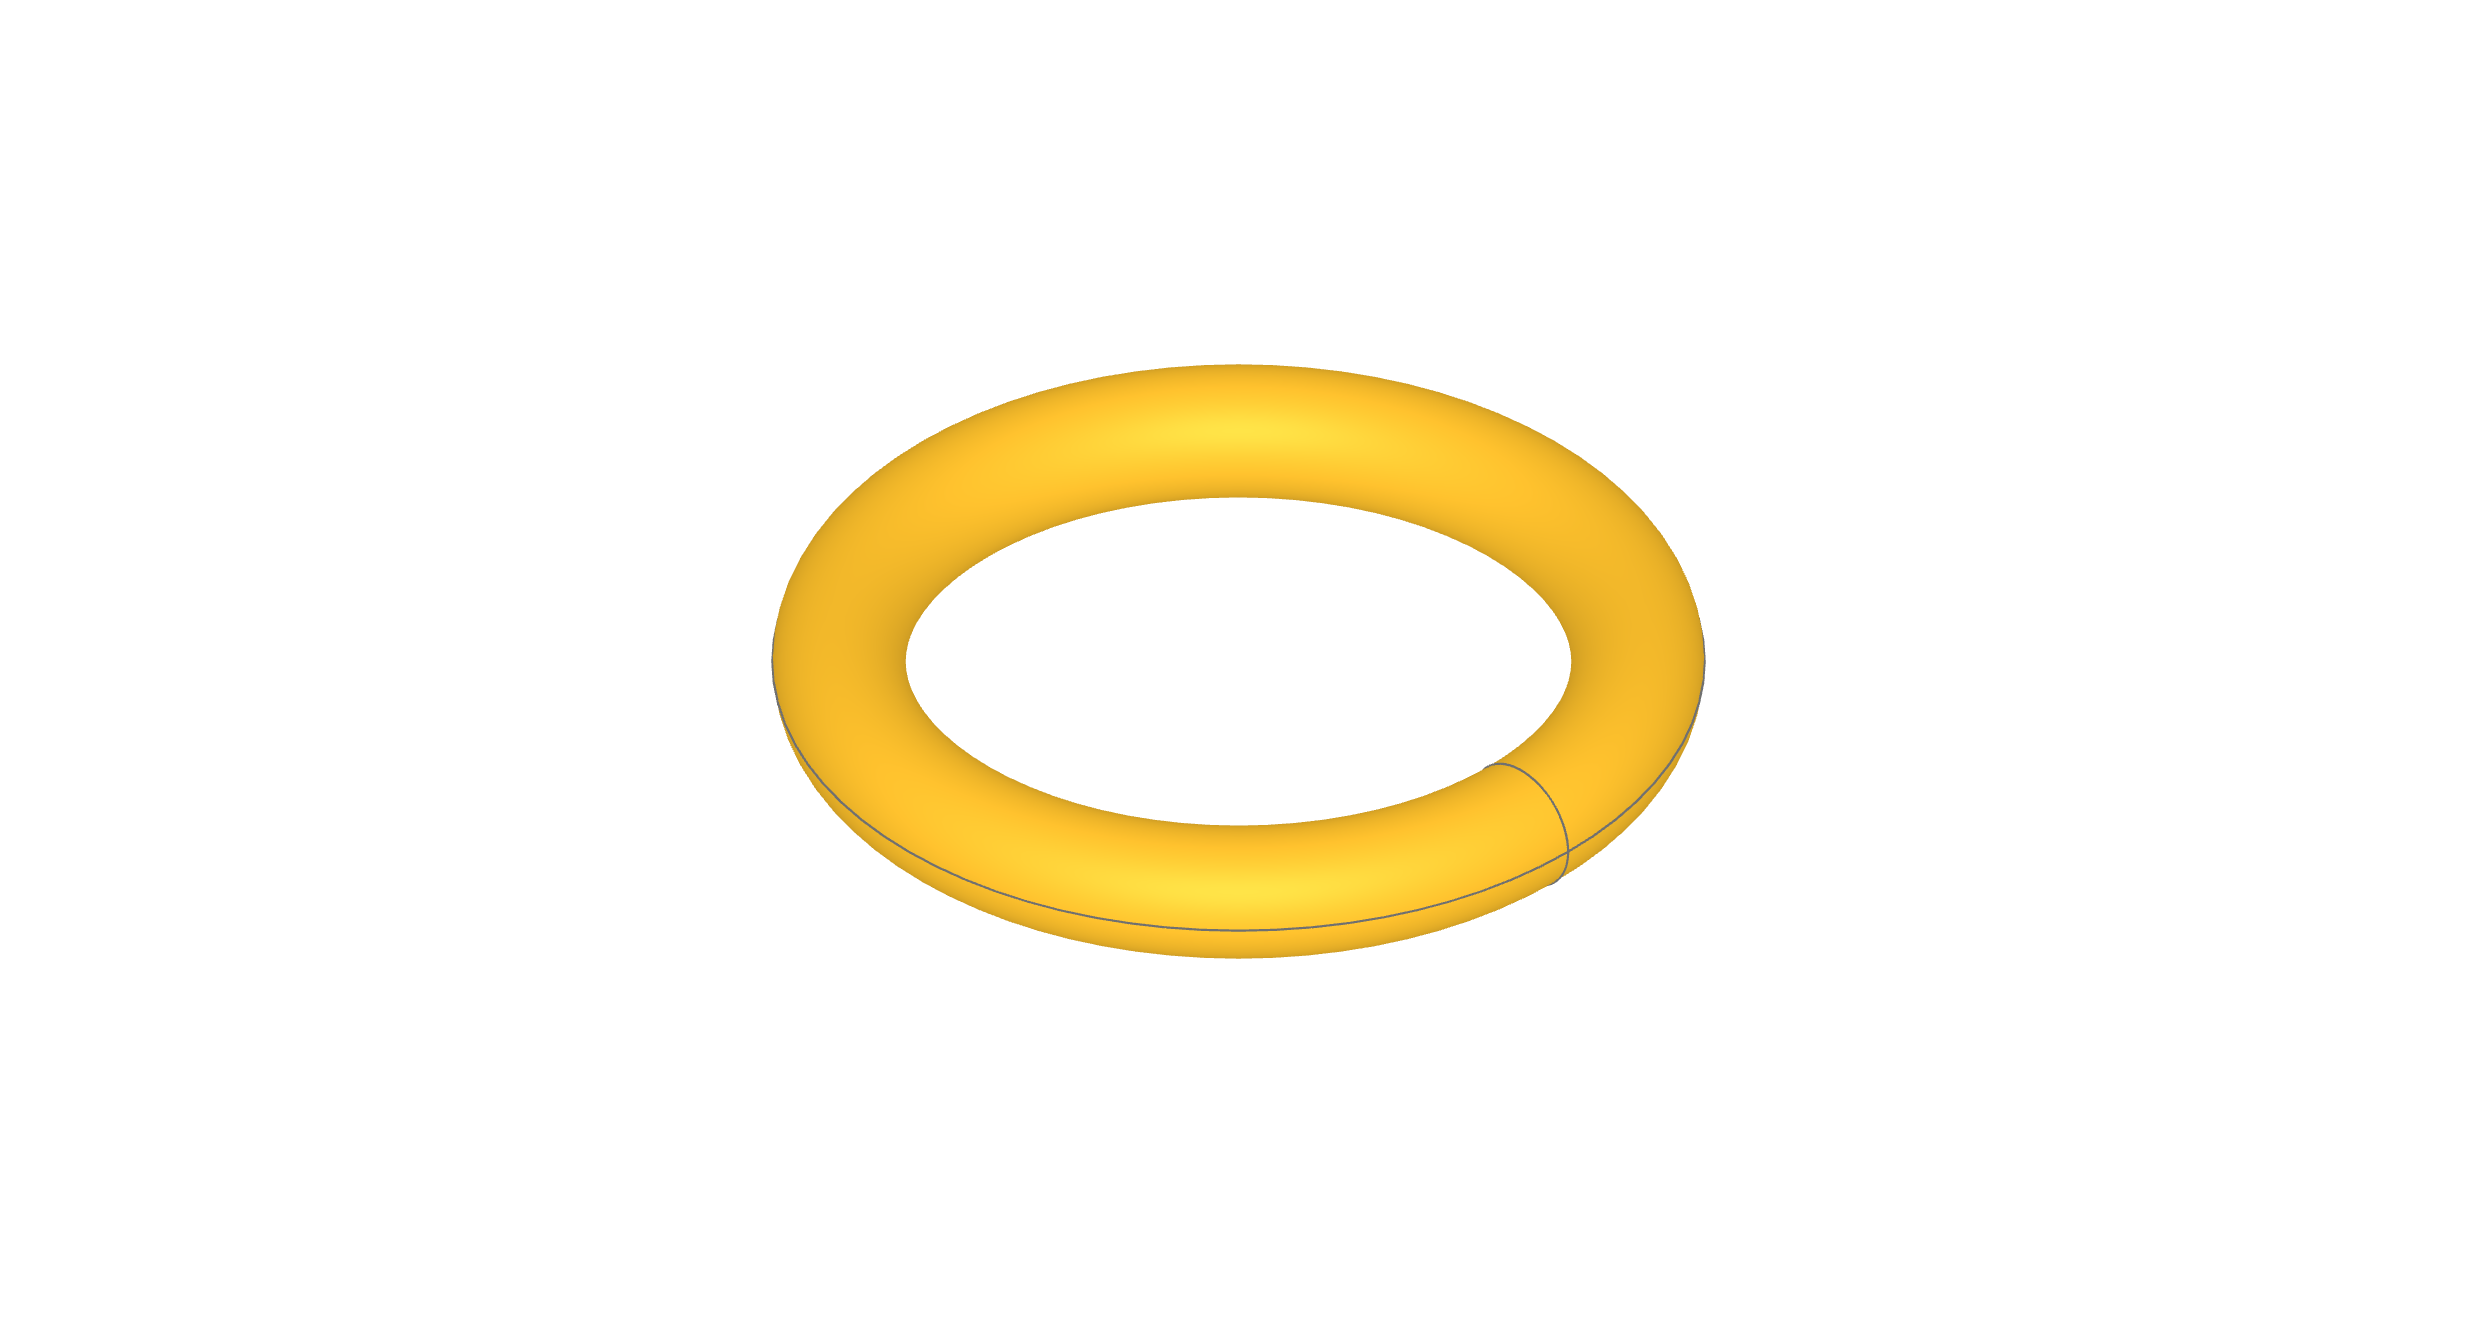
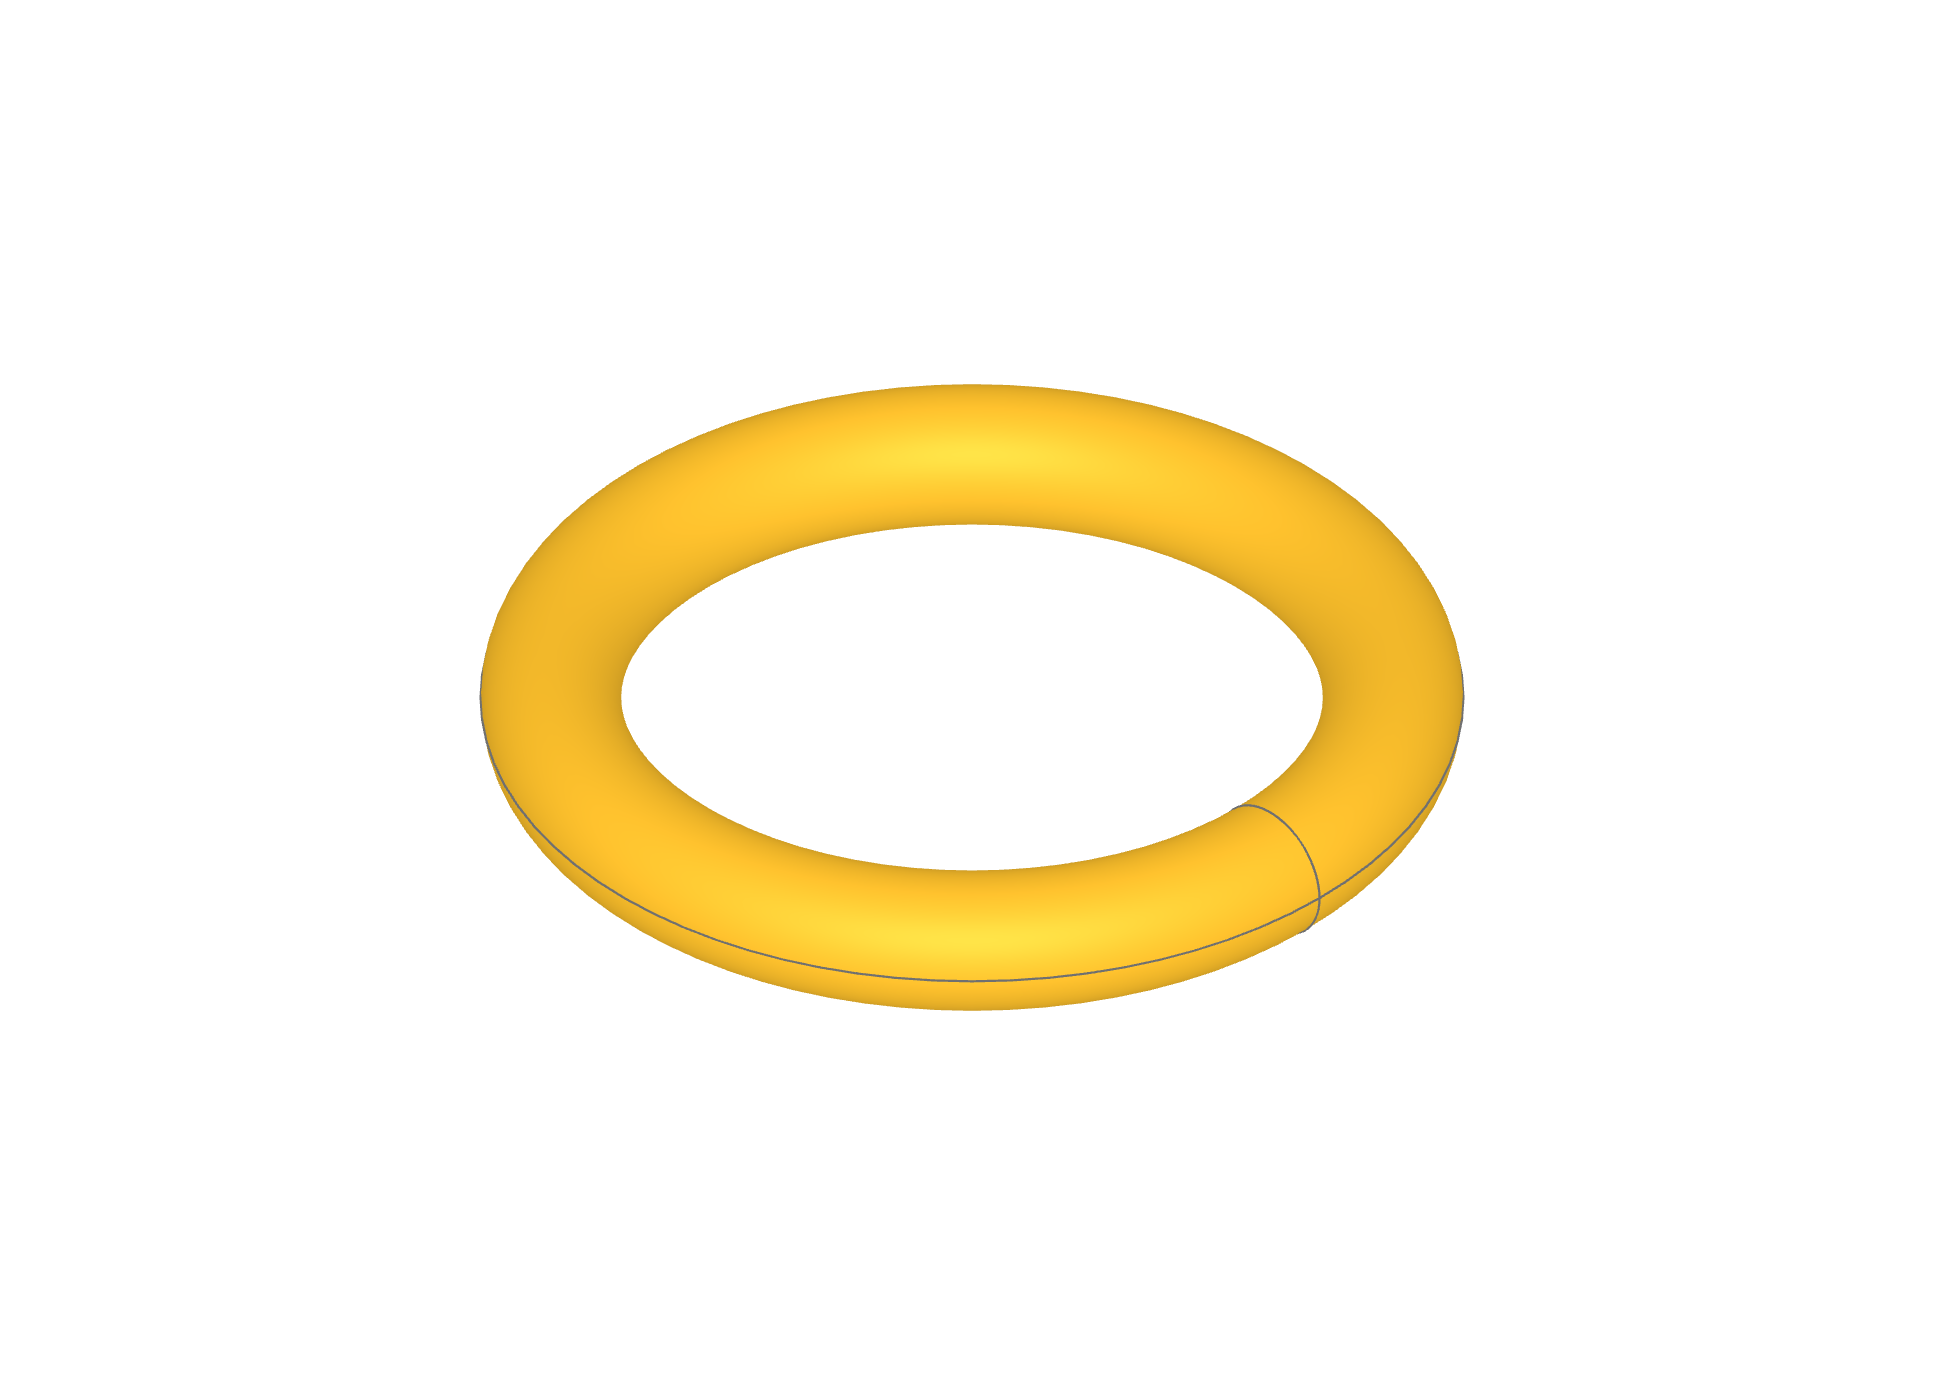
feat(seals): O-ring entry A1–A5 complete — GEOMETRY_INVARIANTS + contract + cache
- oring.py: add GEOMETRY_INVARIANTS (4 invariants) + _assert_geometry_invariants()
  called inside make_oring(); add import math
- contracts/oring_contract.yaml: new A2.4 contract (torus_ring + cord_section
  visual features, 4 geometry_invariants matching Python lambdas exactly)
- cache/oring.step + oring.png: canonical d1=10 d2=2 representative spec (OCP render)
- scripts/build_cache.py: add seals/oring to _rep_bundle()
- actuators/BOM.md: D1 status updated ⬜→✅, standard-parts-lib gap cleared

A4 results:
  Layer 0 — 13 specs PASS (OR_03x15 … OR_50x35)
  Layer 1 — PNG visual PASS (complete torus, circular cord cross-section visible)
  Layer 2 — verify_standard_part verdict=PASS (7-view AI vision check)

Changed region(s): [[0.5247, 0.2787, 0.7716, 0.7432], [0.2469, 0.2787, 0.463, 0.7432]]

diff --git a/build123d_parts_lib/parts/seals/oring.py b/build123d_parts_lib/parts/seals/oring.py
@@ -14,6 +14,7 @@ Geometry:
 """
 from __future__ import annotations
 
+import math
 from pathlib import Path
 from typing import NamedTuple
 
@@ -95,7 +96,41 @@ def make_oring(d1: float = 10.0, d2: float = 2.0) -> Part:
             align=(Align.CENTER, Align.CENTER, Align.CENTER),
         )
 
+    # 计算 g-dict 供不变式断言 / compute geometry dict for invariant checks
+    g = {
+        "d1": d1,
+        "d2": d2,
+        "major_r": major_r,
+        "minor_r": minor_r,
+        "outer_d": d1 + 2 * d2,
+    }
+    _assert_geometry_invariants(g)
+
     return oring.part
+
+
+# ── 几何不变式（Single Truth）──────────────────────────────────────────────
+# GEOMETRY_INVARIANTS 是约束的唯一真相；contract.yaml expr 从此派生。
+# Geometry invariants — single source of truth; contract.yaml expr derived from here.
+GEOMETRY_INVARIANTS = [
+    # (描述 / description,  test lambda)
+    ("截面直径必须小于内径 / cord diameter must be less than inside diameter",
+     lambda g: g["d2"] < g["d1"]),
+    ("major_radius 必须等于 d1/2 + d2/2",
+     lambda g: abs(g["major_r"] - (g["d1"] / 2 + g["d2"] / 2)) < 1e-9),
+    ("minor_radius 必须等于 d2/2 / minor_radius must equal d2/2",
+     lambda g: abs(g["minor_r"] - g["d2"] / 2) < 1e-9),
+    ("外径必须等于 d1 + 2*d2 / outer diameter must equal d1 + 2*d2",
+     lambda g: abs(g["outer_d"] - (g["d1"] + 2 * g["d2"])) < 1e-9),
+]
+
+
+def _assert_geometry_invariants(g: dict) -> None:
+    """Assert all geometry invariants. Fail immediately on violation.
+    断言所有几何不变式，违反时立即报错（不吞异常）。
+    """
+    for desc, test in GEOMETRY_INVARIANTS:
+        assert test(g), f"Invariant FAIL: {desc}\n  g={g}"
 
 
 if __name__ == "__main__":

diff --git a/scripts/build_cache.py b/scripts/build_cache.py
@@ -65,6 +65,7 @@ def _rep_bundle():
     from build123d_parts_lib.parts.retainers.retaining_ring_shaft import (
         make_retaining_ring_shaft,
     )
+    from build123d_parts_lib.parts.seals.oring import make_oring
     from build123d_parts_lib.parts.servos.servo_horn import make_servo_horn
     from build123d_parts_lib.parts.servos.sg90 import make_sg90
     from build123d_parts_lib.parts.servos.standard_servo import make_servo
@@ -163,6 +164,9 @@ def _rep_bundle():
          dict(shaft_d=5.0), "GB/T 894.1  Ring D5 shaft"),
         ("retainers", "retaining_ring_hole", make_retaining_ring_hole,
          dict(hole_d=10.0), "GB/T 893.1  Ring D10 hole"),
+        # seals
+        ("seals", "oring", make_oring,
+         dict(d1=10.0, d2=2.0), "ISO 3601-1  O-Ring d1=10 d2=2"),
     ]
 
 

diff --git a/build123d_parts_lib/parts/actuators/BOM.md b/build123d_parts_lib/parts/actuators/BOM.md
@@ -13,7 +13,7 @@
 | 轴承（含微型 + 薄截面 + 角接触） | 3 型 | ✅ 全部已有 | NSK / INA / Koyo |
 | 紧固件（螺丝 + 热嵌铜螺母） | 4 型 | ✅ 全部已有 | MISUMI / 小零件宝 |
 | 卡圈 / 挡圈 | 1 型 | ✅ 已有 | MISUMI |
-| 密封件（O 型圈） | 1 型 | ⬜ P1-4 计划中 | 标准件超市 |
+| 密封件（O 型圈） | 1 型 | ✅ 已有 | 标准件超市 |
 | 电机原材料 | 3 型 | ⬜ 新增（P2-3） | 航模厂 / 磁钢厂 |
 | 电子 / 传感器 | 3 型 | — 非几何件，不入 parts-lib | 立创 / 模块供应商 |
 | **3D 打印件** | **6 件** | — CAD 待建模（见 PLAN.md） | 自制 |
@@ -56,7 +56,7 @@
 
 | # | 名称 | 型号 / 规格 | 数量/模组 | 采购 | parts-lib |
 |---|------|------------|:--------:|------|-----------|
-| D1 | O 型圈 | **Φ40×2 mm**，NBR | 1 | 采购 | ⬜ P1-4 `seals/oring.py` 计划中 |
+| D1 | O 型圈 | **Φ40×2 mm**，NBR | 1 | 采购 | ✅ `seals/oring.py` OR_40x20 |
 
 ---
 
@@ -121,4 +121,4 @@
 | ✅ | 薄截面深沟球轴承（Φ17×Φ23×3.5） | `bearings/thin_section_bearing.py` | P1-3 完成 |
 | ✅ | 角接触球轴承 7001C | `bearings/angular_contact_bearing.py` | P1-3 完成 |
 | 🟡 P1 | 滚针轴承 HK0810（备选方案） | `bearings/needle_bearing.py` | P1-3 计划中 ⬜ |
-| 🟢 P2 | O 型圈 Φ40×2 | `seals/oring.py` | P1-4 计划中 ⬜ |
+| ✅ | O 型圈 Φ40×2 | `seals/oring.py` | 已完成 ✅ |
